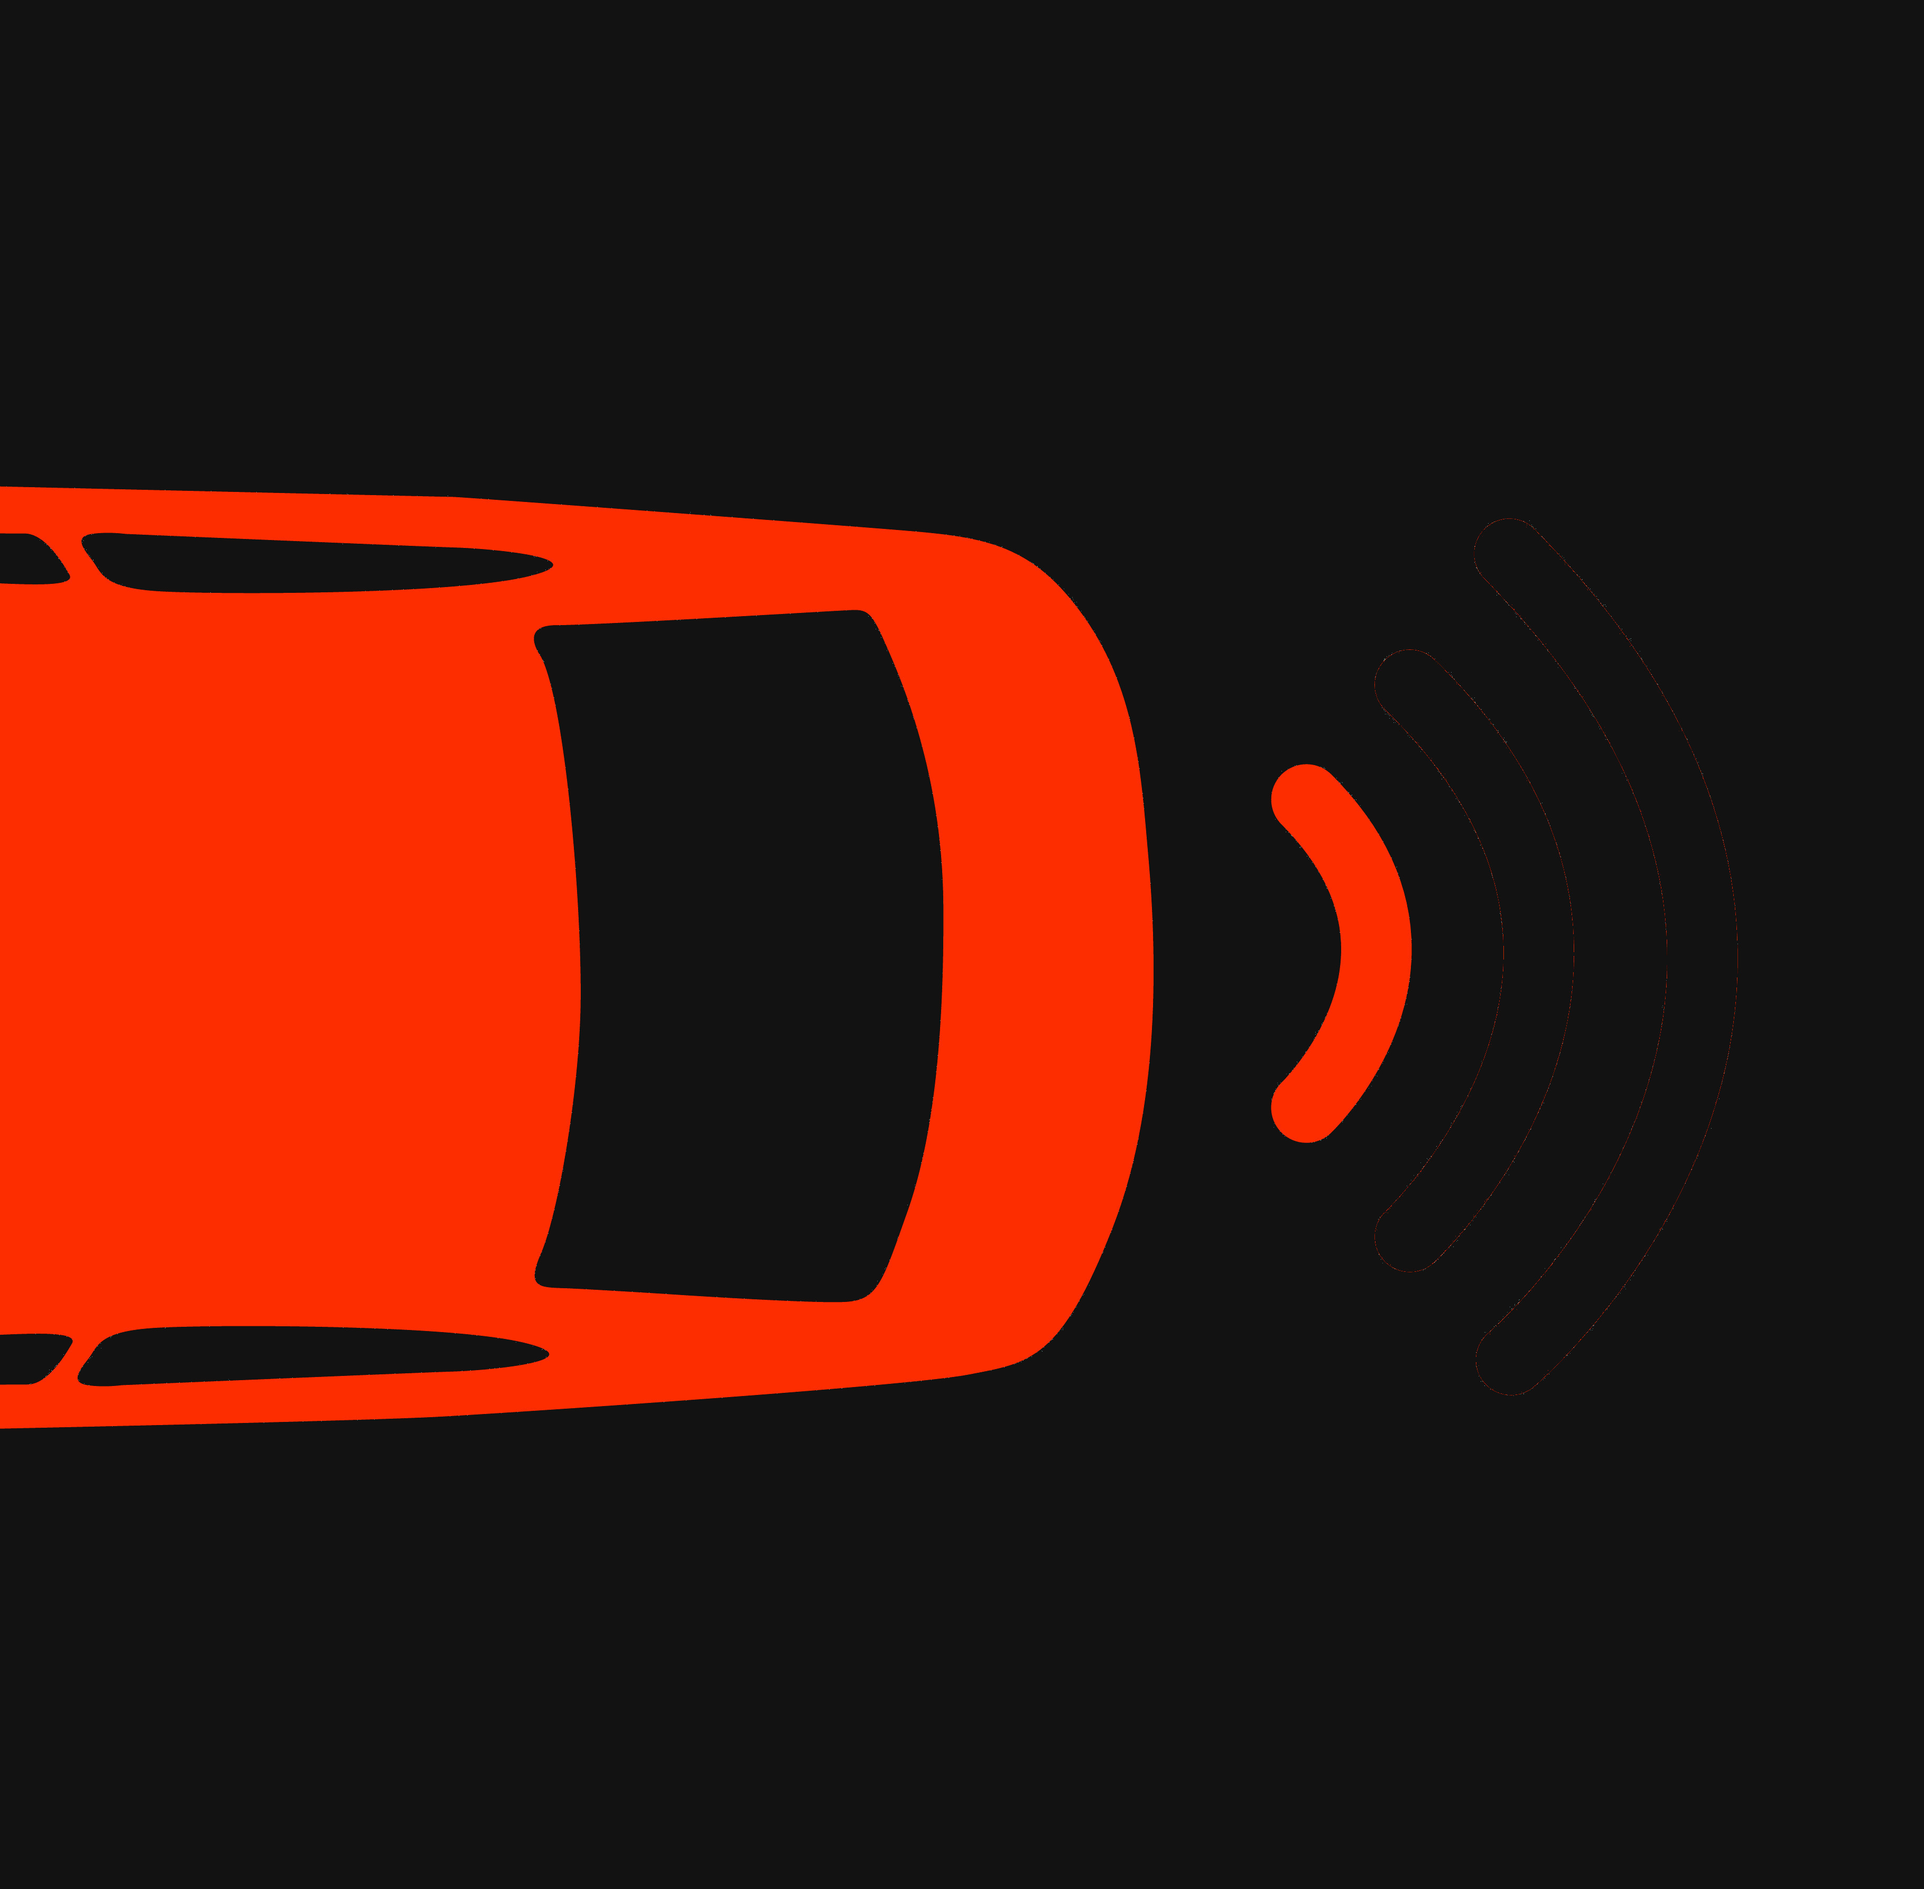
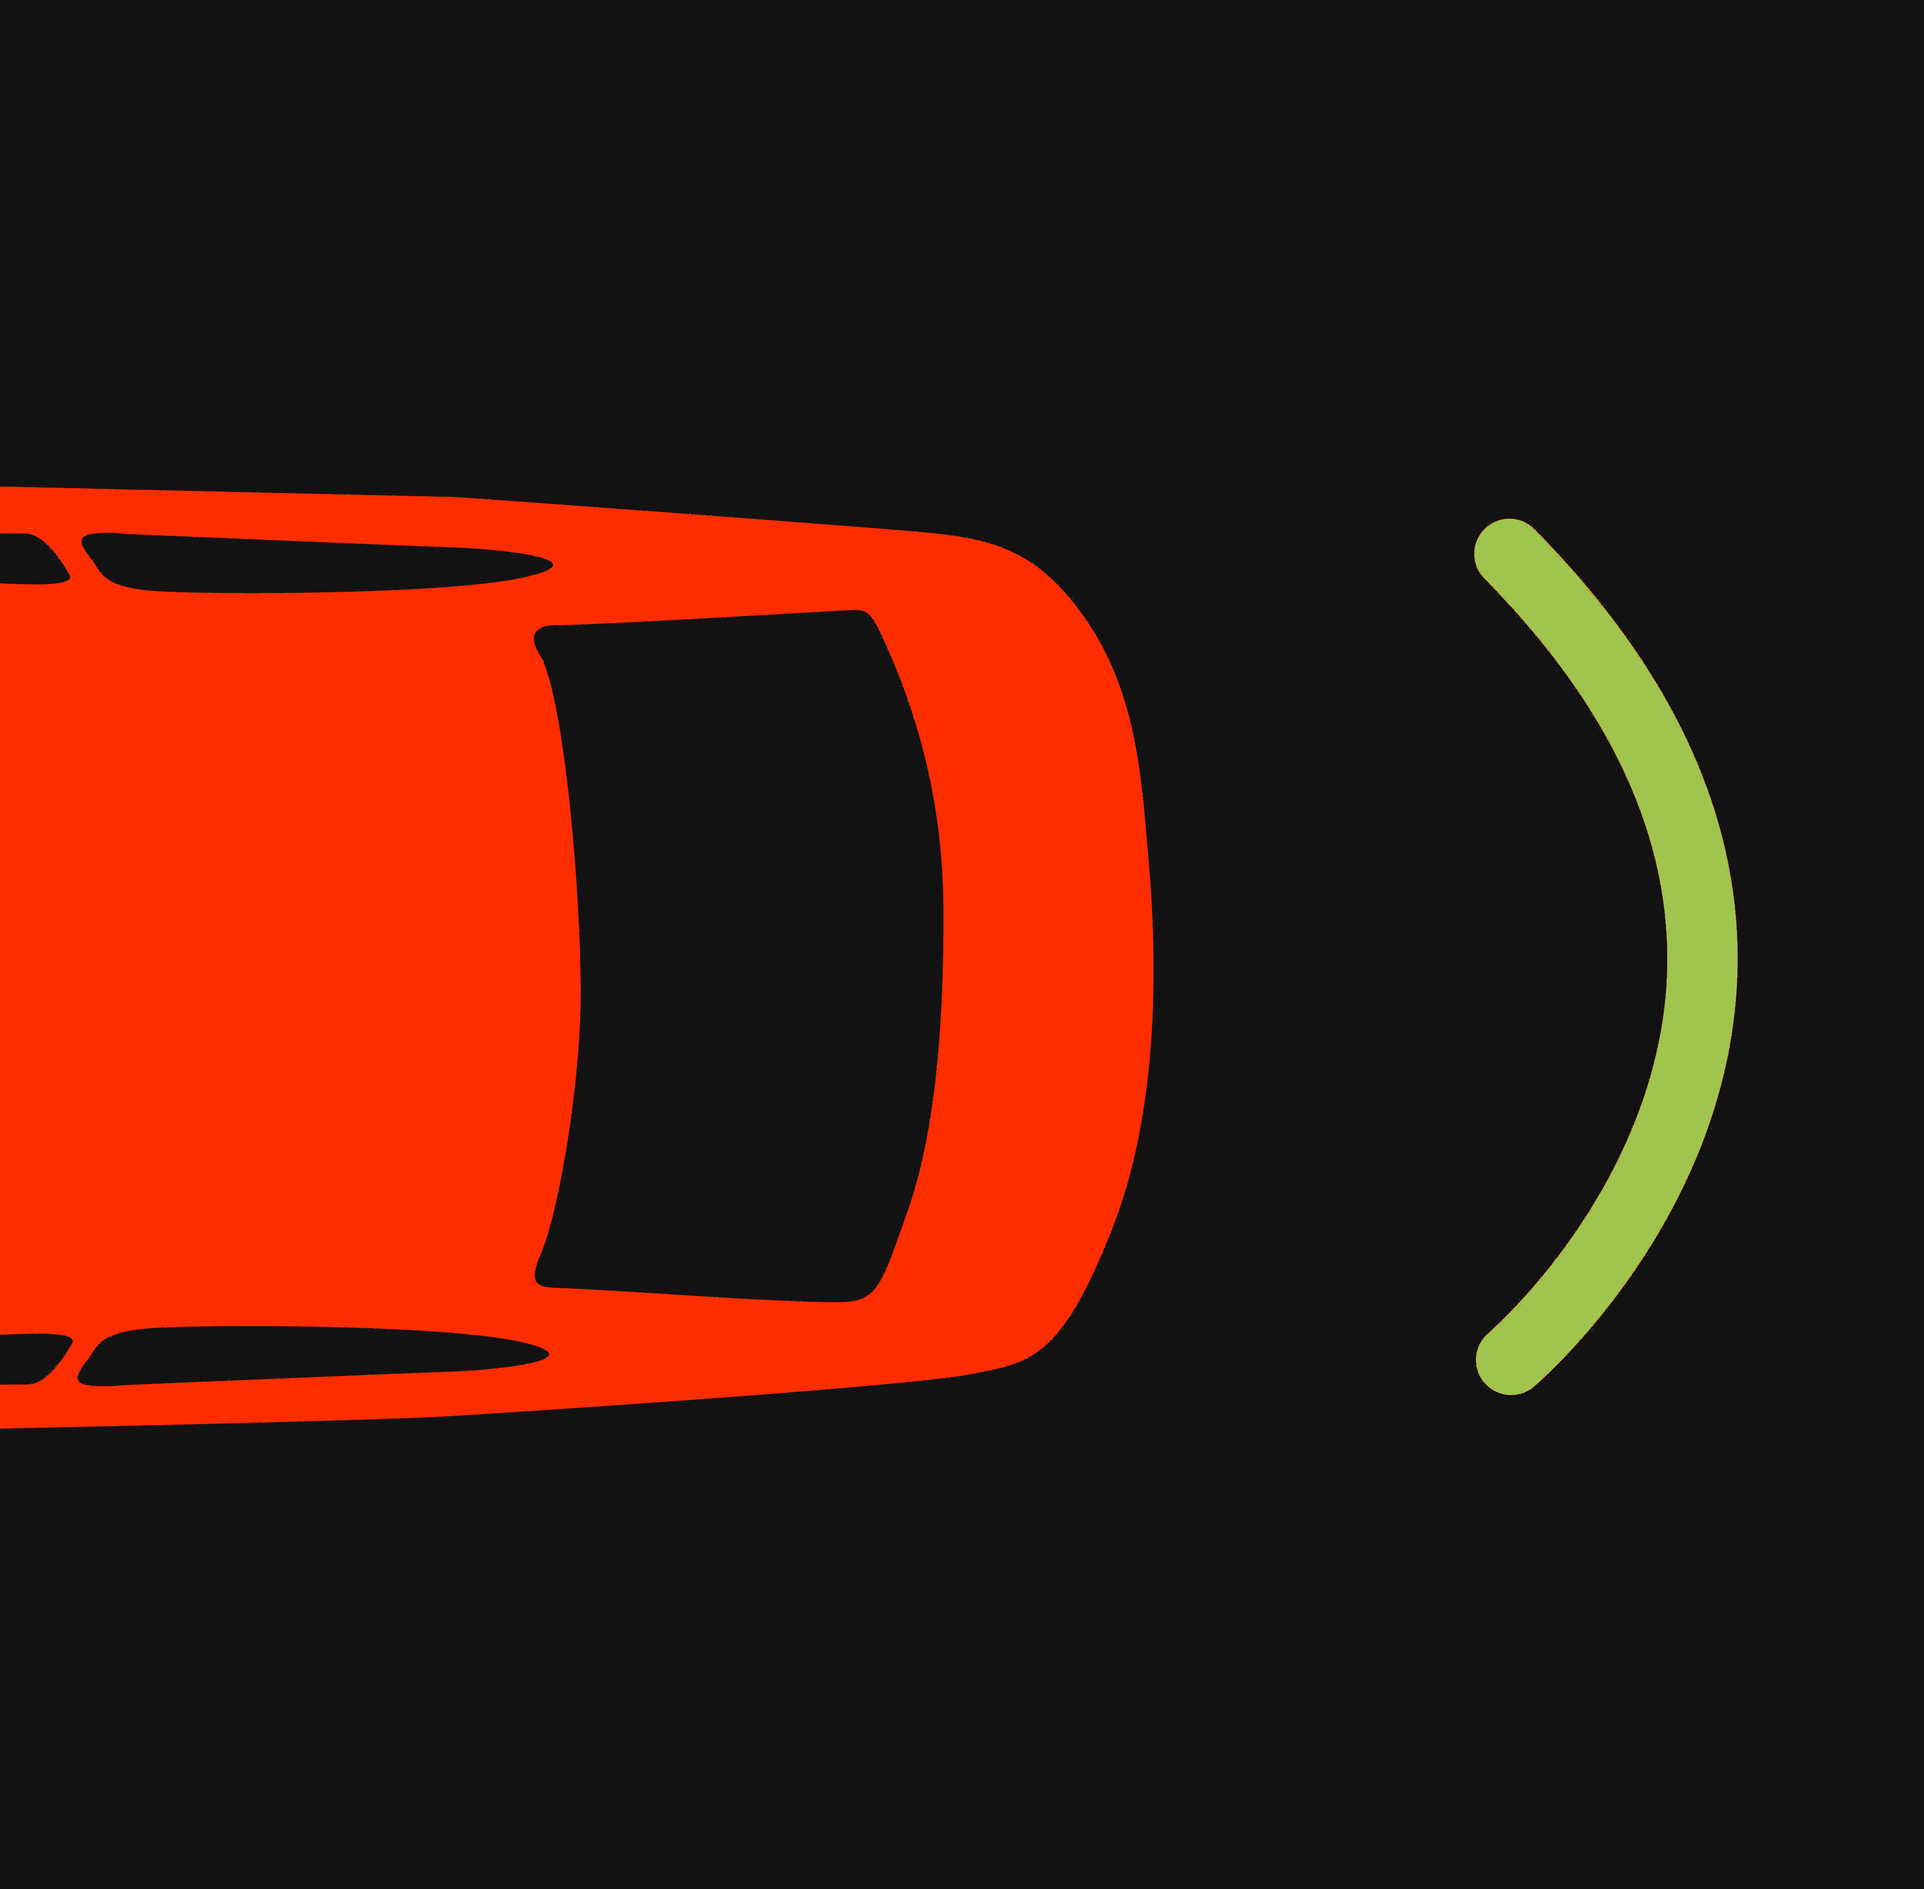
Adding distance bar

Changed region(s): [[0.7449, 0.2794, 0.9, 0.7452], [0.6517, 0.4036, 0.7449, 0.621]]

diff --git a/main.py b/main.py
@@ -28,6 +28,7 @@ def input_thread(data: VehicleData, ui: SDV_UI):
         "hazard": "Vehicle.Body.Lights.Hazard.IsSignaling",
         "left": "Vehicle.Body.Lights.DirectionIndicator.Left.IsSignaling",
         "right": "Vehicle.Body.Lights.DirectionIndicator.Right.IsSignaling",
+        "interior_light": "Vehicle.Cabin.Light.AmbientLight.IsLightOn"
     }
 
     # Read-Signals
@@ -85,14 +86,15 @@ def input_thread(data: VehicleData, ui: SDV_UI):
                     pdc_active = bool(getattr(result.get(READ_SIGNALS["pdc_active"]), "value", False))
                     data.set_parksensor_active(pdc_active)
                     dist = float(getattr(result.get(READ_SIGNALS["pdc_distance"]), "value", 0.0)) # in cm
-                    if dist < 50:
-                        data.set_parksensor_level(0)
-                    elif dist < 100:
-                        data.set_parksensor_level(1)
-                    elif dist < 150:
-                        data.set_parksensor_level(2)
-                    elif dist < 200:
+                    data.set_parksensor_distance(int(dist))  # in cm
+                    if dist <= 50:
                         data.set_parksensor_level(3)
+                    elif dist <= 100:
+                        data.set_parksensor_level(2)
+                    elif dist <= 150:
+                        data.set_parksensor_level(1)
+                    else:
+                        data.set_parksensor_level(0)
 
                     # Person Detection
                     person_detected = bool(getattr(result.get(READ_SIGNALS["person_detected"]), "value", False))
@@ -107,6 +109,7 @@ def input_thread(data: VehicleData, ui: SDV_UI):
         data.set_highbeam(ui.highbeam_btn.isChecked())
         data.set_lowbeam(ui.lowbeam_btn.isChecked())
         data.set_standlight(ui.stand_light_btn.isChecked())
+        data.set_interior_light(ui.interiorlight_btn.isChecked())
 
         now = time.time()
 
@@ -139,6 +142,7 @@ def input_thread(data: VehicleData, ui: SDV_UI):
                     SET_SIGNALS["hazard"]: Datapoint(value=data.get_hazard()),
                     SET_SIGNALS["left"]: Datapoint(value=data.get_left_blinker()),
                     SET_SIGNALS["right"]: Datapoint(value=data.get_right_blinker()),
+                    SET_SIGNALS["interior_light"]: Datapoint(value=data.get_interior_light()),
                 })
             except Exception as e:
                 print("⚠ Fehler beim Publishen an KUKSA:", e)
@@ -153,10 +157,11 @@ def gui_thread(data: VehicleData):
     ui.show()
 
     def update_ui():
-        # Indicators
+        # Indicators & Lights
         ui.highbeam.setVisible(data.get_highbeam())
         ui.lowbeam.setVisible(data.get_lowbeam())
         ui.stand.setVisible(data.get_standlight())
+        ui.interiorlight.setVisible(data.get_interior_light())
         ui.blinker_left.setVisible(data.get_left_blinker() or data.get_hazard())
         ui.blinker_right.setVisible(data.get_right_blinker() or data.get_hazard())
         
@@ -168,13 +173,23 @@ def gui_thread(data: VehicleData):
 
         # Parksensor
         active = data.get_parksensor_active()  
-        level = data.get_parksensor_level()    
+        level = data.get_parksensor_level()  
+        distance = data.get_parksensor_distance()
 
         ui.parksensor_0.setVisible(level == 0 and active)
         ui.parksensor_1.setVisible(level == 1 and active)
         ui.parksensor_2.setVisible(level == 2 and active)
         ui.parksensor_3.setVisible(level == 3 and active)
 
+        ui.update_distance_bar(distance)
+
+        if (level == 3) and active:
+            ui.distance_bar_bg.show()
+            ui.distance_bar_fill.show()
+        else:
+            ui.distance_bar_bg.hide()
+            ui.distance_bar_fill.hide()
+                    
         # Speed
         ui.speed.setText(str(int(data.get_speed())))
 

diff --git a/ui.py b/ui.py
@@ -54,8 +54,7 @@ class SDV_UI(QWidget):
         self.person_distance_cm.setStyleSheet("color: #fd2d00;")
         self.person_distance_cm.move(310, 442)
         self.person_distance_cm.hide()
-
-        
+                
         # Buttons
         self.blinker_right_btn = self._make_button(876, 306, "icons/blinker_right_button.JPG")
         self.highbeam_btn = self._make_button(876, 452, "icons/highbeam_button.JPG")
@@ -63,6 +62,7 @@ class SDV_UI(QWidget):
         self.lowbeam_btn = self._make_button(730, 452, "icons/lowbeam_button.JPG")
         self.blinker_left_btn = self._make_button(584, 306, "icons/blinker_left_button.JPG")
         self.stand_light_btn = self._make_button(584, 452, "icons/stand_button.JPG")
+        self.interiorlight_btn = self._make_button(438, 452, "icons/interiorlight_button.JPG")
 
         # blinker lights group
         self.blinker_group = [self.blinker_left_btn, self.blinker_right_btn, self.hazard_btn]
@@ -106,6 +106,7 @@ class SDV_UI(QWidget):
         self.stand = self._make_image(876, 8, "icons/stand.JPG") #prev: 584,8
         self.lowbeam = self._make_image(876, 8, "icons/lowbeam.JPG") #prev: 730,8
         self.highbeam = self._make_image(876, 8, "icons/highbeam.JPG")
+        self.interiorlight = self._make_image(730, 8, "icons/interiorlight.JPG")
 
         # Türen
         self.door_both = self._make_image(584, 8, "icons/door_both.JPG") #all prev: 730, 146
@@ -113,12 +114,21 @@ class SDV_UI(QWidget):
         self.door_right = self._make_image(584, 8, "icons/door_right.JPG")
 
         # Parksensoren
-        self.parksensor_0 = self._make_image(8, 380, "icons/parksensor0.jpg")
-        self.parksensor_1 = self._make_image(8, 380, "icons/parksensor1.jpg")
-        self.parksensor_2 = self._make_image(8, 380, "icons/parksensor2.jpg")
-        self.parksensor_3 = self._make_image(8, 380, "icons/parksensor3.jpg")
-        
+        self.parksensor_0 = self._make_image_extend(8, 330, "icons/parksensor0.jpg")
+        self.parksensor_1 = self._make_image_extend(8, 330, "icons/parksensor1.jpg")
+        self.parksensor_2 = self._make_image_extend(8, 330, "icons/parksensor2.jpg")
+        self.parksensor_3 = self._make_image_extend(8, 330, "icons/parksensor3.jpg")
 
+        # --- Distance Bar (50 cm, 1 cm = 1 Pixel) ---
+        self.distance_bar_bg = QLabel(self)
+        self.distance_bar_bg.setGeometry(8, 530, 240, 20)
+        self.distance_bar_bg.setStyleSheet("background-color: #1A1A1A; border-radius: 5px;")
+
+        self.distance_bar_fill = QLabel(self)
+        self.distance_bar_fill.setGeometry(8, 530, 0, 20)
+        self.distance_bar_fill.setStyleSheet("background-color: #fd2d00; border-radius: 5px;")
+
+        
         # Person
         self.person = self._make_image(150, 380, "icons/person.jpg")
         self.person.hide()
@@ -174,3 +184,26 @@ class SDV_UI(QWidget):
         label.setPixmap(pixmap.scaled(140, 140, Qt.KeepAspectRatio, Qt.SmoothTransformation))
         label.move(x, y)
         return label
+
+    def _make_image_extend(self, x, y, img_path):
+        label = QLabel(self)
+        pixmap = QPixmap(img_path)
+        label.setPixmap(pixmap.scaled(240, 240, Qt.KeepAspectRatio, Qt.SmoothTransformation))
+        label.move(x, y)
+        return label
+
+    def update_distance_bar(self, cm):
+        
+        cm = max(0, min(50, cm))
+        if cm < 30:
+            self.distance_bar_fill.setStyleSheet("background-color: #fd2d00; border-radius: 5px;")
+        elif cm < 40:
+            self.distance_bar_fill.setStyleSheet("background-color: #ce7927; border-radius: 5px;")
+        else:
+            self.distance_bar_fill.setStyleSheet("background-color: #9fc54e; border-radius: 5px;")
+
+        max_width = 240
+        # Anteil der letzten 50cm
+        fill_width = int(max_width * cm / 50)
+        self.distance_bar_fill.setGeometry(8, 530, fill_width, 20)
+

diff --git a/vehicle_data.py b/vehicle_data.py
@@ -11,6 +11,7 @@ class VehicleData:
         self._left_blinker = False
         self._right_blinker = False
         self._hazard = False
+        self._interior_light = False
 
         # gear and speed
         self._gear = 126
@@ -25,7 +26,8 @@ class VehicleData:
 
         # Parksensor
         self._parksensor_active = False
-        self._parksensor_level = 0;
+        self._parksensor_level = 0
+        self._parksensor_distance = 0
 
         # Fuel level
         self._fuel_level = 0
@@ -57,6 +59,14 @@ class VehicleData:
     def get_standlight(self):
         with self._lock:
             return self._standlight
+
+    def set_interior_light(self, value: bool):
+        with self._lock:
+            self._interior_light = value
+
+    def get_interior_light(self):
+        with self._lock:
+            return self._interior_light
 
     def set_left_blinker(self, value: bool):
         with self._lock:
@@ -137,6 +147,14 @@ class VehicleData:
     def get_parksensor_active(self):
         with self._lock:
             return self._parksensor_active
+
+    def set_parksensor_distance(self, value: int):
+        with self._lock:
+            self._parksensor_distance = value
+
+    def get_parksensor_distance(self):
+        with self._lock:
+            return self._parksensor_distance
 
     def set_fuel_level(self, level: int):
         with self._lock:
